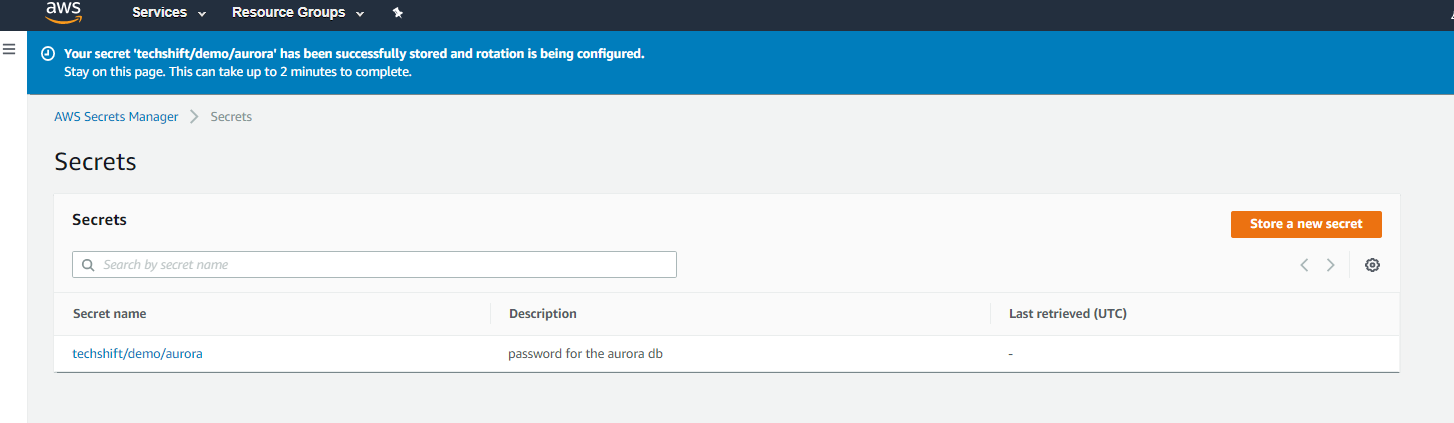
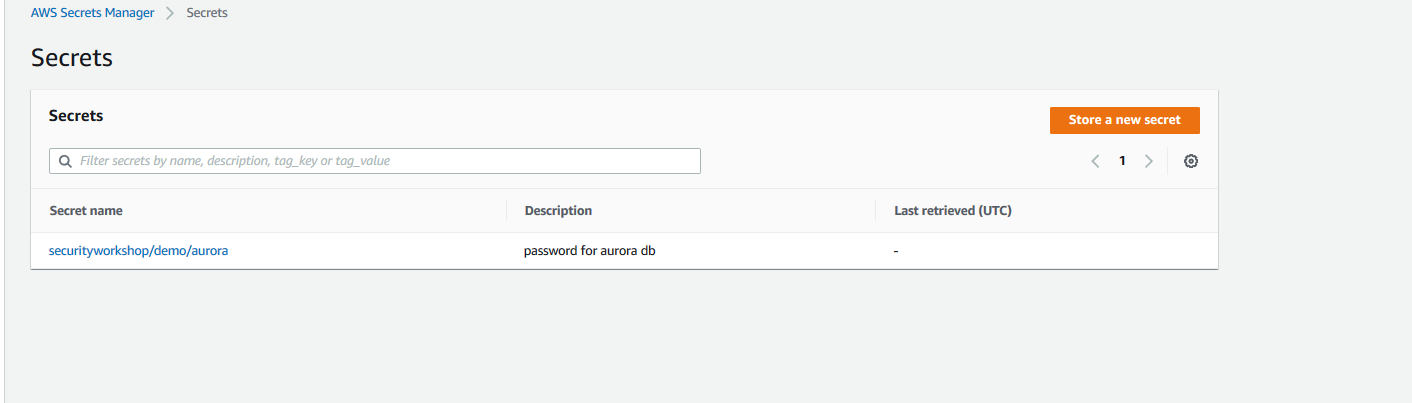
changes in secret manager lab

diff --git a/05-Secrets-Manager-Lab/README.md b/05-Secrets-Manager-Lab/README.md
@@ -58,13 +58,13 @@ And then click on **Create role**
     choose **Store a new secret**.
 
 3) On the **Store a new secret** page, choose **Credentials for RDS Database**, in
-   the username type *admin and in the password box type techshift2019. Choose
-   the security created in the previous lab called techshiftkey2019* and select
+   the username type *admin and in the password box type securityworkshop. Choose
+   the encryption key created in the previous lab called  security-workshop-key* and select
    the database created in the previous lab.
 
 ![images](images/62ee37a962c8d96713af8b33f510fe6d.png)
 
-4)  Give the *Secret* a name – *techshift/demo/aurora*. Add a description and
+4)  Give the *Secret* a name – *securityworkshop/demo/aurora*. Add a description and
     press *Next*.
 
 ![images](images/8625b77cdb1bb9b3ac03fb8c97b92836.png)
@@ -99,21 +99,19 @@ And then click on **Create role**
 
 6) Once you are done click **Save**.
 
+7) Now we need to allow our role to use they KMS key to decrypt our secrets. To accomplish this we need to go to KMS click on our key **security-wrokshop-key** and add the EC2role created at the beginning of this lab in the __Key users__ section
+
+![images](images/addec2role.png)
+
 #### To use the secret from Secrets Manager in your code
 
 1) Go to the Cloud9 console and open the environment created by CloudFormation.
 
 ![images](images/cloud9.png)
 
-2) In the Cloud9 environment drag and drop the Key Pair created at the beginning of this prerequisites lab and save it. If you have done this during the pre-requisites labs then there is no need to do it again.
-
-![images](images/cloud9keypair.png)
-
-3) In the command prompt key in the following command:
+2) In the command prompt key in the following command:
 
 ```
-chmod 400 [the name of your keypair]
-
 ssh -i "[the name of your keypair]" ubuntu@[IP address of the  - can be found in the Cloudformation Output]
 
 ```
